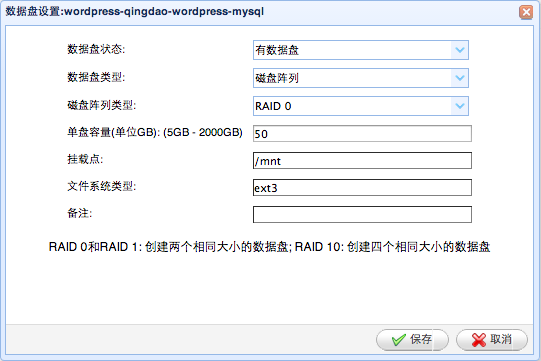
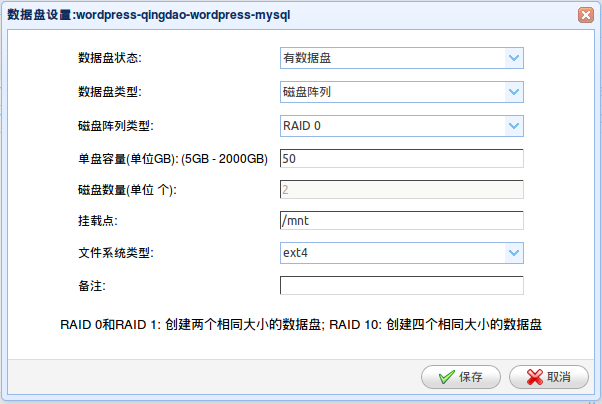
修改设置数据盘截图

Changed region(s): [[0.0, 0.0, 1.0, 1.0], [0.0887, 0.7618, 0.9168, 0.8227], [0.1183, 0.1219, 0.2366, 0.2438]]

diff --git a/source/add_data_volume.rst b/source/add_data_volume.rst
@@ -15,7 +15,9 @@ Raid0，Raid1，Raid10数据盘。
 
 |    第二步: 在集群页面找到wordpress-qingdao集群,然后点击集群所在行的 "虚拟机组" 进入虚
 | 拟机组列表页面;
-|
+
+.. image:: _static/010-volume-GoToClusterRoleList.png
+
 |    第三步: 在集群虚拟机组页面中找到wordpress-mysql虚拟机组，并点击这个虚拟机组的
 | 所在行最右边一列的 "操作", 在操作的下来菜单中点击 "数据盘设置" 进入数据盘设置页面;
 
@@ -26,7 +28,7 @@ Raid0，Raid1，Raid10数据盘。
 |  b) 数据盘类型选择 "单个磁盘"
 |  c) 单盘容量填写 "100"
 |  d) 挂载点保持默认 "/mnt"
-|  e) 文件系统类型保持默认ext4,或者填写为ext3
+|  e) 文件系统类型保持默认ext4,或者选择ext3
 
 .. image:: _static/010-volume-Common.png
 
@@ -48,7 +50,9 @@ Raid0，Raid1，Raid10数据盘。
 
 |    第二步: 在集群页面找到wordpress-qingdao集群,然后点击集群所在行的 "虚拟机组" 进入虚
 | 拟机组列表页面;
-|
+
+.. image:: _static/010-volume-GoToClusterRoleList.png
+
 |    第三步: 在集群虚拟机组页面中找到wordpress-mysql虚拟机组，并点击这个虚拟机组的
 | 所在行最右边一列的 "操作", 在操作的下来菜单中点击 "数据盘设置" 进入数据盘设置页面;
 
@@ -60,7 +64,7 @@ Raid0，Raid1，Raid10数据盘。
 |  c) 磁盘阵列类型选择 "Raid0"
 |  d) 单盘容量填写 "50"
 |  e) 挂载点保持默认 "/mnt"
-|  f) 文件系统类型保持默认ext4,或者填写为ext3
+|  f) 文件系统类型保持默认ext4,或者选择ext3
 
 .. image:: _static/010-volume-raid0.png
 
@@ -83,7 +87,9 @@ Raid0，Raid1，Raid10数据盘。
 
 |    第二步: 在集群页面找到wordpress-qingdao集群,然后点击集群所在行的 "虚拟机组" 进入虚
 | 拟机组列表页面;
-|
+
+.. image:: _static/010-volume-GoToClusterRoleList.png
+
 |    第三步: 在集群虚拟机组页面中找到wordpress-mysql虚拟机组，并点击这个虚拟机组的
 | 所在行最右边一列的 "操作", 在操作的下来菜单中点击 "数据盘设置" 进入数据盘设置页面;
 
@@ -95,7 +101,7 @@ Raid0，Raid1，Raid10数据盘。
 |  c) 磁盘阵列类型选择 "Raid1"
 |  d) 单盘容量填写 "100"
 |  e) 挂载点保持默认 "/mnt"
-|  f) 文件系统类型保持默认ext4,或者填写为ext3
+|  f) 文件系统类型保持默认ext4,或者选择ext3
 
 .. image:: _static/010-volume-raid1.png
 
@@ -119,7 +125,9 @@ Raid0，Raid1，Raid10数据盘。
 
 |    第二步: 在集群页面找到wordpress-qingdao集群,然后点击集群所在行的 "虚拟机组" 进入虚
 | 拟机组列表页面;
-|
+
+.. image:: _static/010-volume-GoToClusterRoleList.png
+
 |    第三步: 在集群虚拟机组页面中找到wordpress-mysql虚拟机组，并点击这个虚拟机组的
 | 所在行最右边一列的 "操作", 在操作的下来菜单中点击 "数据盘设置" 进入数据盘设置页面;
 
@@ -131,7 +139,7 @@ Raid0，Raid1，Raid10数据盘。
 |  c) 磁盘阵列类型选择 "Raid10"
 |  d) 单盘容量填写 "50"
 |  e) 挂载点保持默认 "/mnt"
-|  f) 文件系统类型保持默认ext4,或者填写为ext3
+|  f) 文件系统类型保持默认ext4,或者选择ext3
 
 .. image:: _static/010-volume-raid10.png
 
